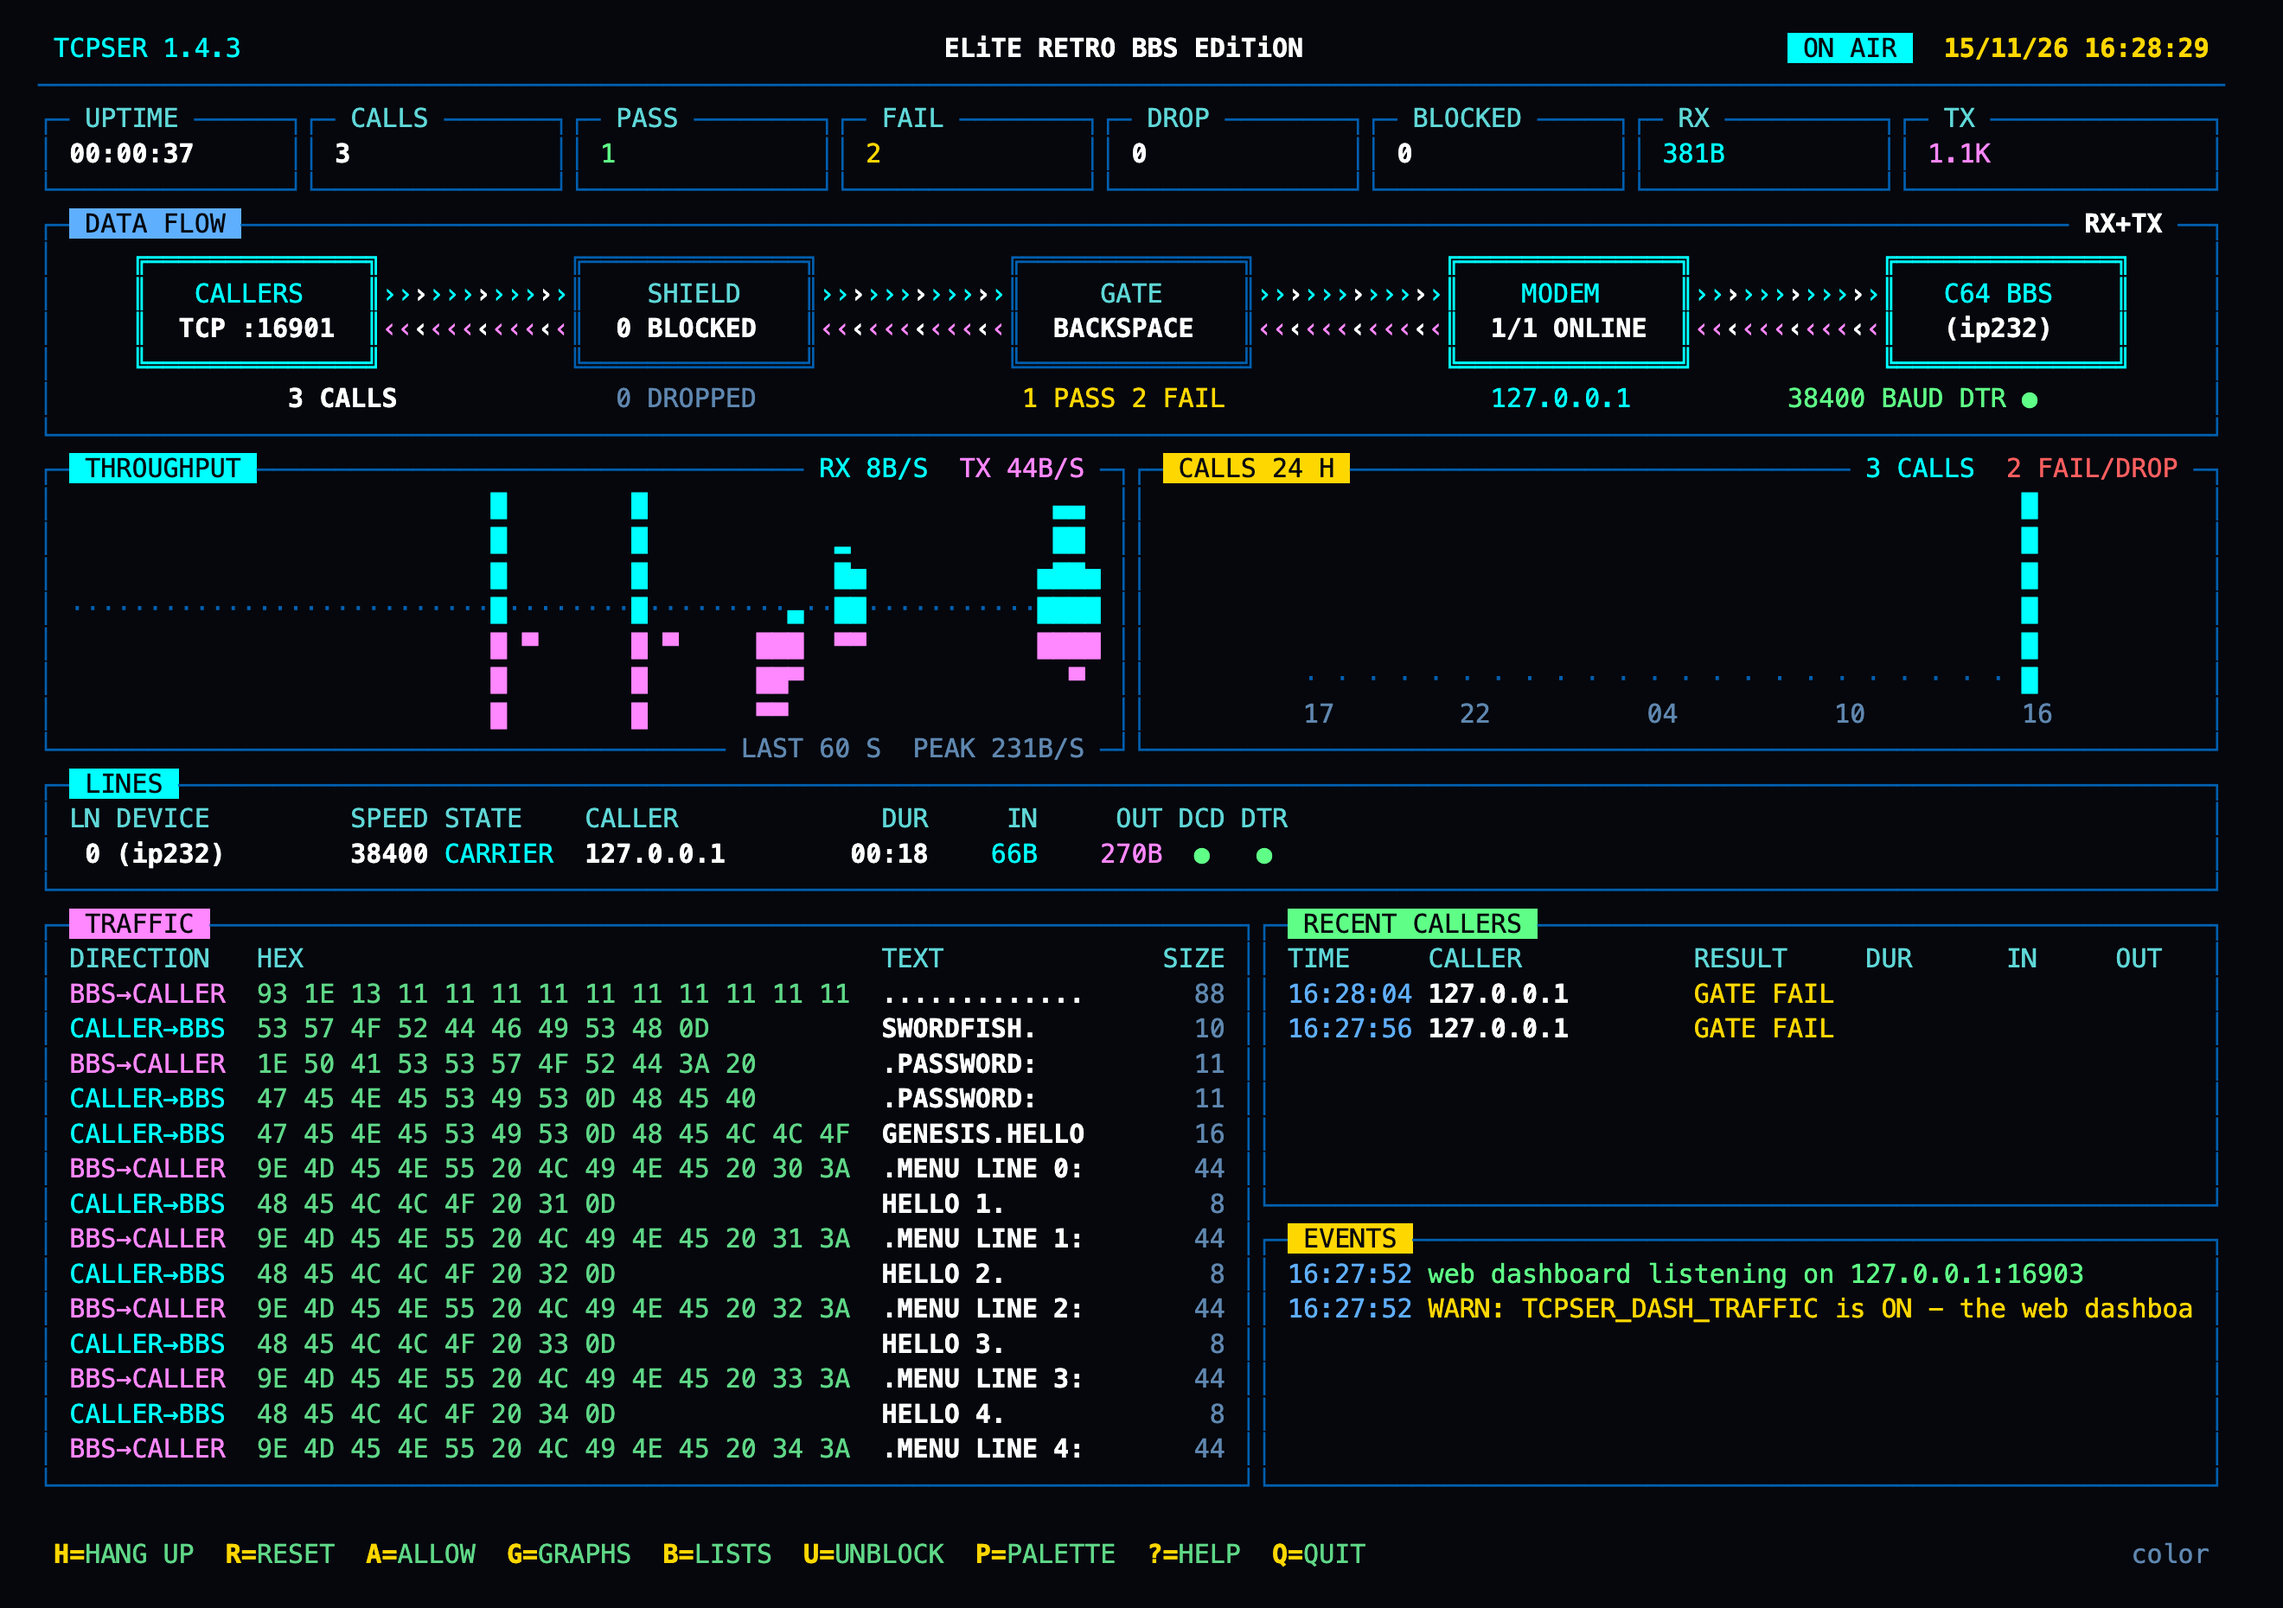
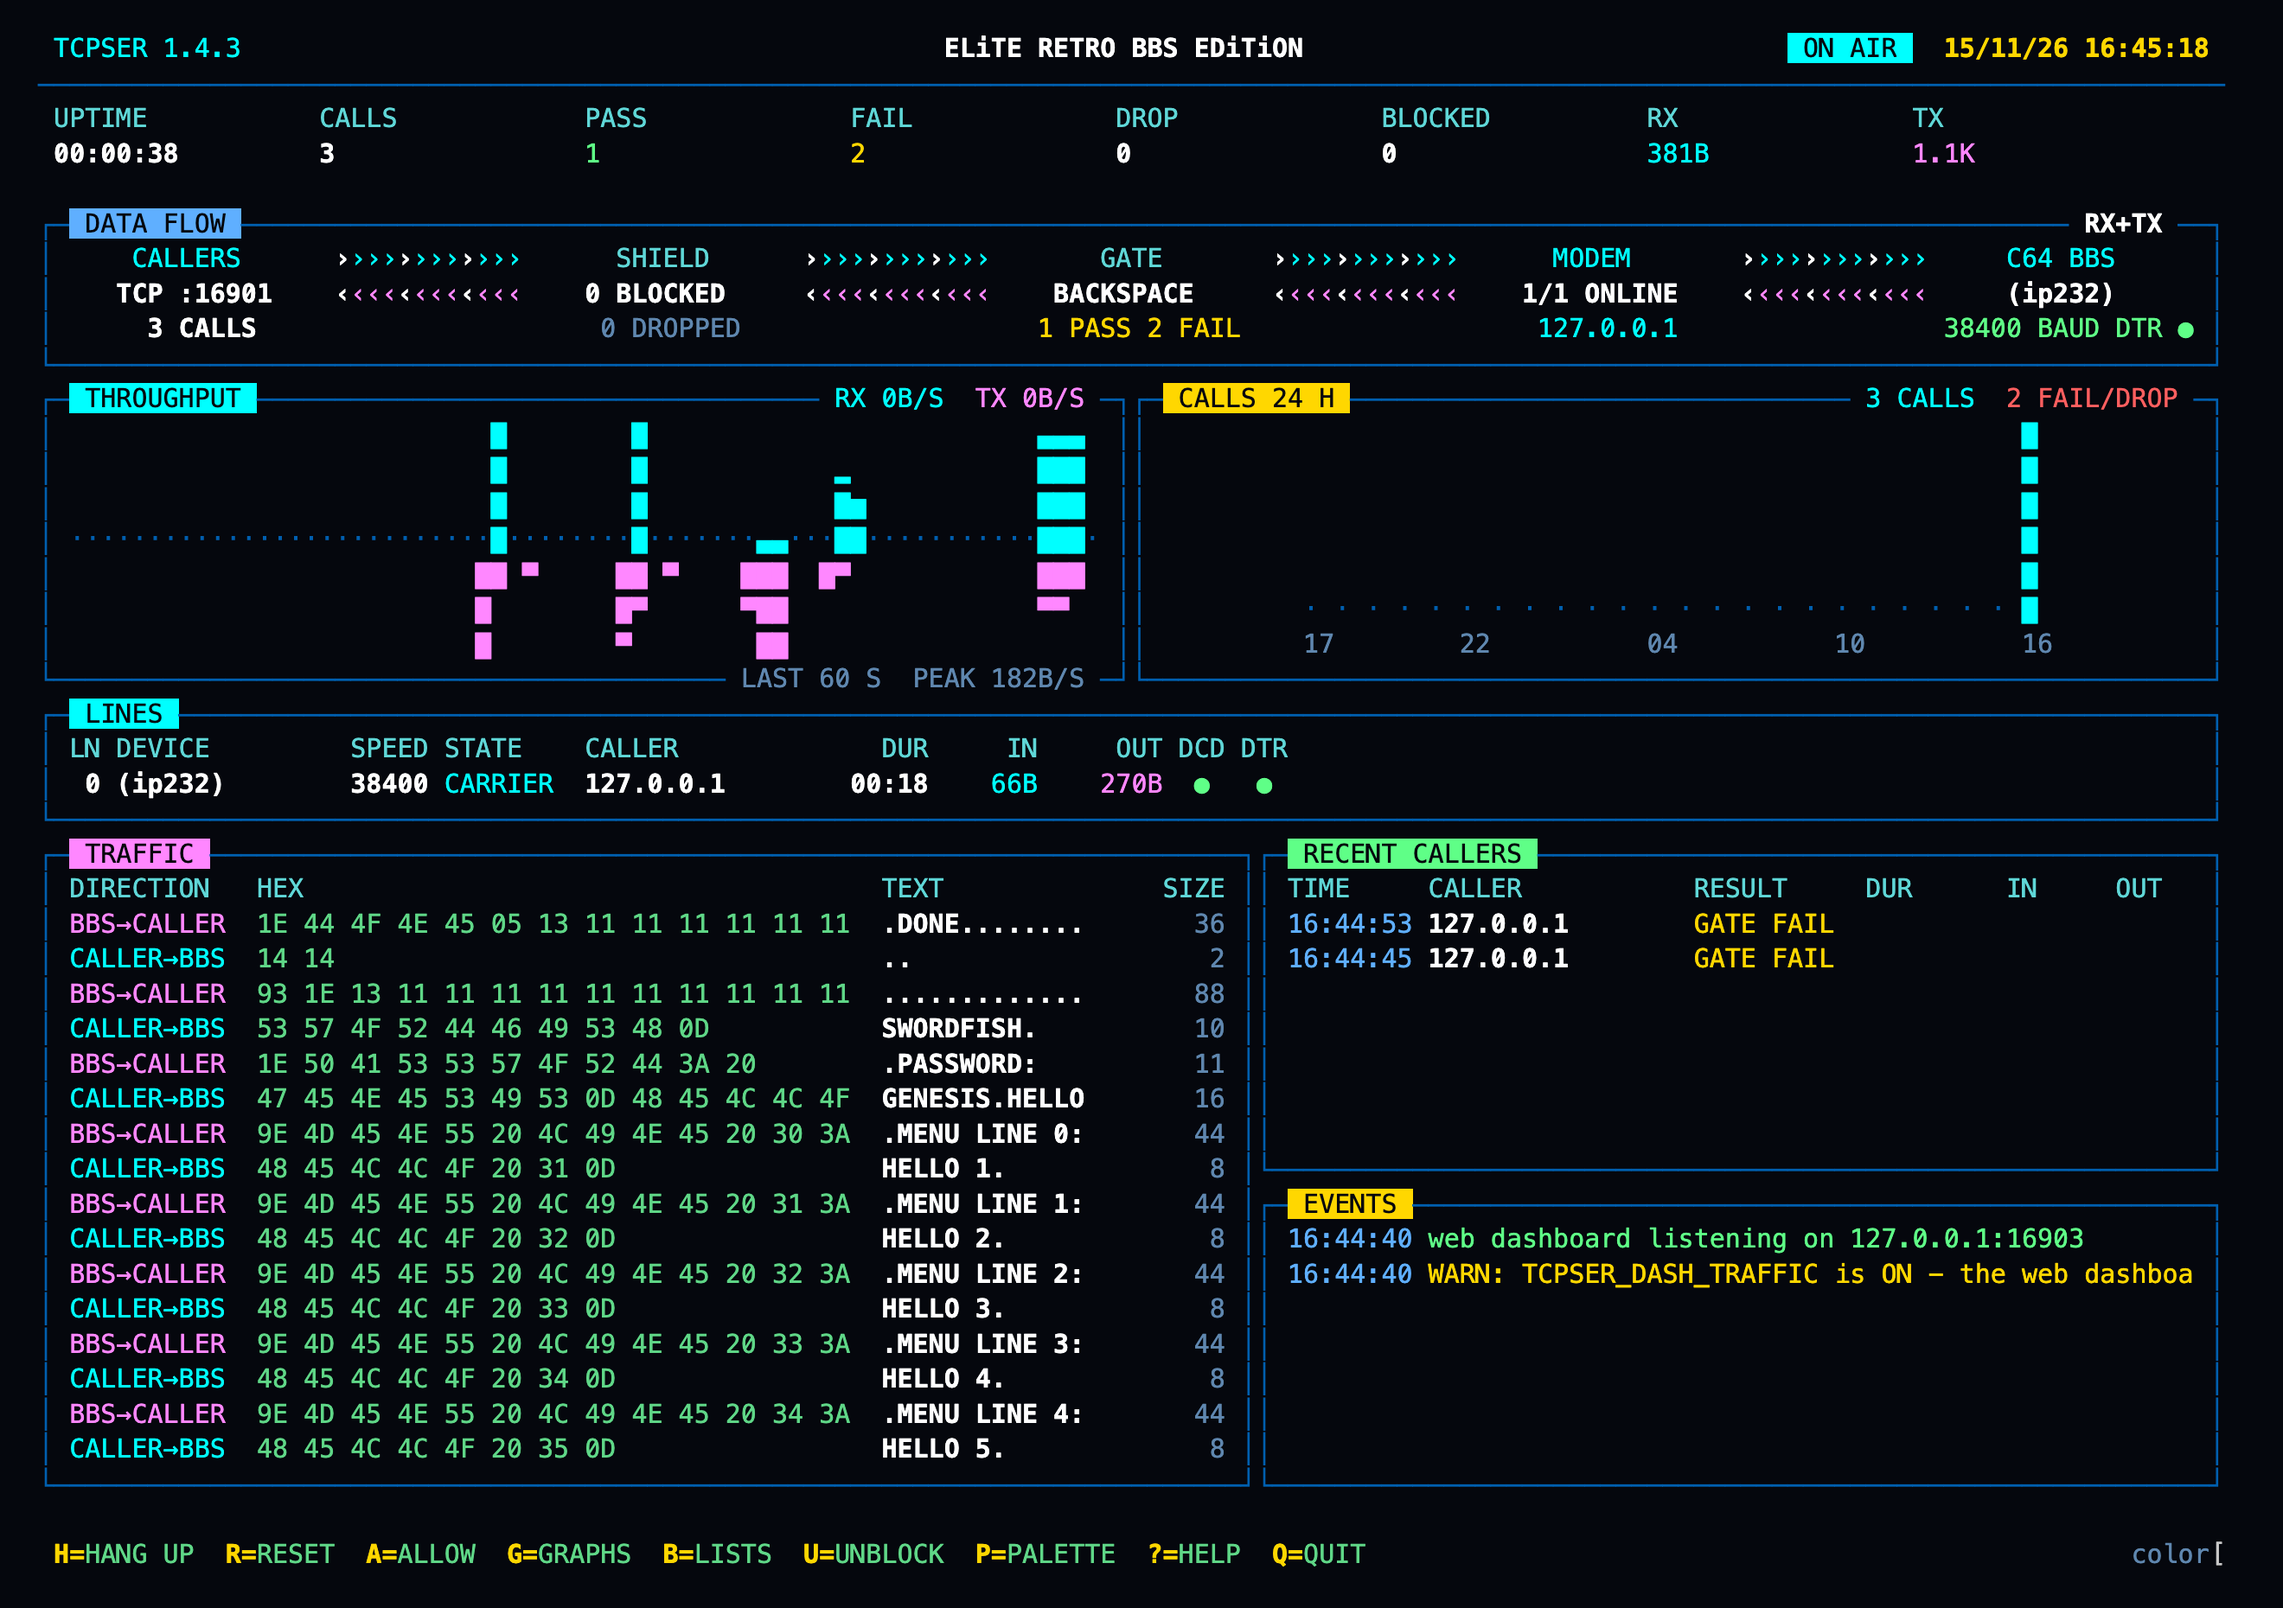
Terminal dashboard: no boxes around counters and flow stages; fix gcc truncation warnings

diff --git a/src/dashboard.c b/src/dashboard.c
@@ -171,6 +171,13 @@ static void put_center(int row, int left, int width, int color, const char *s) {
   int n = cells_of(s); if(n > width) n = width;
   tui_putn(row, left + (width - n) / 2, color, s, width);
 }
+/* centred on column `mid`, kept inside the frame */
+static void put_mid(int row, int mid, int color, const char *s) {
+  int n = cells_of(s), c = mid - n / 2;
+  if(c + n > W - 2) c = W - 2 - n;
+  if(c < 2) c = 2;
+  tui_putn(row, c, color, s, W - 2 - c);
+}
 static int lines_online(int *total) {
   int on = 0, n = 0;
   for(int i = 0; i < DASH_MAX_LINES; i++) if(g_dash.lines[i].inited) { n++; if(g_dash.lines[i].connected) on++; }
@@ -179,7 +186,7 @@ static int lines_online(int *total) {
 }
 
 /* ---- counters -------------------------------------------------------------- */
-typedef struct { const char *label; char val[24]; int color; } kpi_t;
+typedef struct { const char *label; char val[48]; int color; } kpi_t;
 #define NKPI 8
 static void build_kpis(kpi_t *k) {
   int nblk = blocklist_count();
@@ -202,20 +209,19 @@ static void draw_kpi_strip(int row) {
     tui_put(row, c, k[i].color, k[i].val); c += (int)strlen(k[i].val) + 2;
   }
 }
+/* tall screens: label over value in even columns, no frames */
 static void draw_kpi_tiles(int top) {
   kpi_t k[NKPI]; build_kpis(k);
-  int tw = W / NKPI;
+  int tw = (W - 2) / NKPI;
   for(int i = 0; i < NKPI; i++) {
-    int left = i * tw, w = (i == NKPI - 1) ? W - left : tw;
-    char t[24]; snprintf(t, sizeof(t), " %s ", k[i].label);
-    tui_box(top, left, 3, w, NULL);
-    put_clip(top, left + 2, TC_HEAD, t, left + w - 1);
-    put_clip(top + 1, left + 2, k[i].color, k[i].val, left + w - 1);
+    int left = 1 + i * tw;
+    put_clip(top, left, TC_HEAD, k[i].label, left + tw - 1);
+    put_clip(top + 1, left, k[i].color, k[i].val, left + tw - 1);
   }
 }
 
 /* ---- data flow ------------------------------------------------------------- */
-typedef struct { const char *title; char detail[24]; char status[40]; int frame; int scolor; } flow_node_t;
+typedef struct { const char *title; char detail[48]; char status[64]; int frame; int scolor; } flow_node_t;
 #define NFLOW 5
 static void build_flow(flow_node_t *n, time_t now) {
   int total = 0, on = lines_online(&total);
@@ -279,28 +285,28 @@ static void draw_flow(int top, int h) {
   }
   int inner = W - 4;
   int nw = W >= 118 ? 16 : W >= 96 ? 14 : W >= 78 ? 12 : 10;
-  int gw = (inner - NFLOW * nw) / (NFLOW - 1); if(gw > 12) gw = 12; if(gw < 1) gw = 1;
+  int gw = (inner - NFLOW * nw) / (NFLOW - 1); if(gw > 18) gw = 18; if(gw < 1) gw = 1;
   int x0 = 2 + (inner - (NFLOW * nw + (NFLOW - 1) * gw)) / 2;
-  if(h >= 7) {
+  if(h >= 5) {
+    /* three plain rows per stage: name (lit while it is doing something),
+     * what it is, and its running count. Arrows to the BBS run beside the
+     * names, arrows back to the caller beside the second row. */
     for(int i = 0; i < NFLOW; i++) {
       int x = x0 + i * (nw + gw), f = n[i].frame;
-      tui_putn(top + 1, x, f, U("\xe2\x95\x94", "+"), 1); tui_fill(top + 1, x + 1, nw - 2, f, U("\xe2\x95\x90", "=")); tui_putn(top + 1, x + nw - 1, f, U("\xe2\x95\x97", "+"), 1);
-      tui_putn(top + 4, x, f, U("\xe2\x95\x9a", "+"), 1); tui_fill(top + 4, x + 1, nw - 2, f, U("\xe2\x95\x90", "=")); tui_putn(top + 4, x + nw - 1, f, U("\xe2\x95\x9d", "+"), 1);
-      for(int r = 2; r <= 3; r++) { tui_putn(top + r, x, f, U("\xe2\x95\x91", "|"), 1); tui_putn(top + r, x + nw - 1, f, U("\xe2\x95\x91", "|"), 1); }
-      put_center(top + 2, x + 1, nw - 2, f == TC_FRAME ? TC_HEAD : f, n[i].title);
-      put_center(top + 3, x + 1, nw - 2, TC_VALUE, n[i].detail);
-      put_center(top + 5, i == 0 ? x : i == NFLOW - 1 ? x - gw : x - gw / 2, nw + gw, n[i].scolor, n[i].status);
-      if(i < NFLOW - 1) {
+      put_center(top + 1, x, nw, f == TC_FRAME ? TC_HEAD : f, n[i].title);
+      put_center(top + 2, x, nw, TC_VALUE, n[i].detail);
+      put_mid(top + 3, x + nw / 2, n[i].scolor, n[i].status);
+      if(i < NFLOW - 1 && gw >= 3) {
         int before_gate = i < 2;
-        flow_arrows(top + 2, x + nw, gw, +1, rx || (before_gate && knock), carrier, phase);
-        flow_arrows(top + 3, x + nw, gw, -1, tx, carrier, phase);
+        flow_arrows(top + 1, x + nw + 1, gw - 2, +1, rx || (before_gate && knock), carrier, phase);
+        flow_arrows(top + 2, x + nw + 1, gw - 2, -1, tx, carrier, phase);
       }
     }
   } else {
     for(int i = 0; i < NFLOW; i++) {
       int x = x0 + i * (nw + gw), f = n[i].frame;
       put_center(top + 1, x, nw, f == TC_FRAME ? TC_HEAD : f, n[i].title);
-      if(h >= 4) put_center(top + 2, i == 0 ? x : i == NFLOW - 1 ? x - gw + 1 : x - gw / 2, nw + gw - 1, n[i].scolor, i == 4 ? n[i].detail : n[i].status);
+      if(h >= 4) put_mid(top + 2, x + nw / 2, n[i].scolor, i == 4 ? n[i].detail : n[i].status);
       if(i < NFLOW - 1) {
         int before_gate = i < 2;
         if(tx && !(rx && (phase & 4))) flow_arrows(top + 1, x + nw, gw, -1, 1, carrier, phase);
@@ -693,9 +699,9 @@ static void render(void) {
     /* rows the bottom area must keep: less when its panes sit side by side */
     int minb = W >= 124 ? 8 : W >= 100 ? 10 : 12;
     if(bottom < 5) { bottom += flow_h; flow_h = 0; }                     /* tiny screen: no flow */
-    if(flow_h && bottom - 3 >= minb) { flow_h = 7; bottom -= 3; }        /* boxes and both arrow rows */
+    if(flow_h && bottom - 1 >= minb) { flow_h = 5; bottom -= 1; }        /* both arrow rows */
     if(bottom - 5 >= minb) { graph_h = 5; bottom -= 5; }                 /* graphs */
-    if(W >= 96 && bottom - 2 >= minb) { kpi_h = 3; bottom -= 2; }        /* counter tiles */
+    if(W >= 96 && bottom - 2 >= minb) { kpi_h = 3; bottom -= 2; }        /* counters as two rows + a blank */
     if(graph_h && bottom - 2 >= minb + 3) { graph_h += 2; bottom -= 2; }
     if(graph_h && bottom - 2 >= minb + 6) { graph_h += 2; bottom -= 2; }
 

diff --git a/src/webserver.c b/src/webserver.c
@@ -521,7 +521,7 @@ static void handle_request(int fd) {
      * skips the gate, so this sits behind the same guards as hang up. */
     if(strncmp(path, "/api/allow/", 11) == 0 || strncmp(path, "/api/unallow/", 13) == 0) {
       int add = path[5] == 'a';
-      char ip[32]; snprintf(ip, sizeof(ip), "%s", path + (add ? 11 : 13));
+      char ip[32]; snprintf(ip, sizeof(ip), "%.31s", path + (add ? 11 : 13));
       ip[strcspn(ip, "?")] = 0;
       int rc = add ? allowlist_add(ip) : allowlist_remove(ip);
       if(rc == -1) { send_text(fd, 400, "Not an IPv4 address"); close(fd); return; }

diff --git a/src/bridge.c b/src/bridge.c
@@ -159,7 +159,7 @@ int allowlist_list(char out[][16], int max) {
   int n = 0;
   pthread_mutex_lock(&g_allow_mutex);
   allowlist_load_if_needed();
-  for(; n < g_allow_count && n < max; n++) snprintf(out[n], 16, "%s", g_allow[n]);
+  for(; n < g_allow_count && n < max; n++) snprintf(out[n], 16, "%.15s", g_allow[n]);
   pthread_mutex_unlock(&g_allow_mutex);
   return n;
 }

diff --git a/README.md b/README.md
@@ -145,8 +145,8 @@ level shifter. No libraries beyond libc and pthreads.
 <td width="50%" valign="top">
 
 **Terminal (`-M`)** — a small operations wall for the gateway, on stderr,
-over SSH, on a Pi. From the top: system line with an ON AIR lamp, counter
-tiles, a **DATA FLOW** diagram (callers → shield → gate → modem → C64) whose
+over SSH, on a Pi. From the top: system line with an ON AIR lamp, a row of
+counters, a **DATA FLOW** diagram (callers → shield → gate → modem → C64) whose
 arrows move while bytes do and whose stages flash on a drop or a failed gate,
 a throughput graph (bytes per second, last minute) beside calls per hour
 (24 h), the LINES table, live hex + text traffic, recent callers and the
